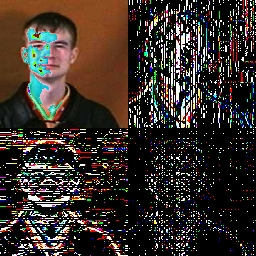
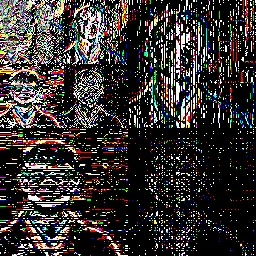
sssaaaa

Changed region(s): [[0.0, 0.0, 0.5, 0.5]]

diff --git a/generateFeatures.cpp b/generateFeatures.cpp
@@ -11,7 +11,7 @@ int main()
         image->resize(256, 256);
         // convert from unsigned char to float to support larger range of values
 
-	CImg<unsigned char> wavelet = image->haar();
+	CImg<unsigned char> wavelet = image->haar(false, 16);
 
         wavelet.save("Resources/Files/FaceHaar.jpg");
 
